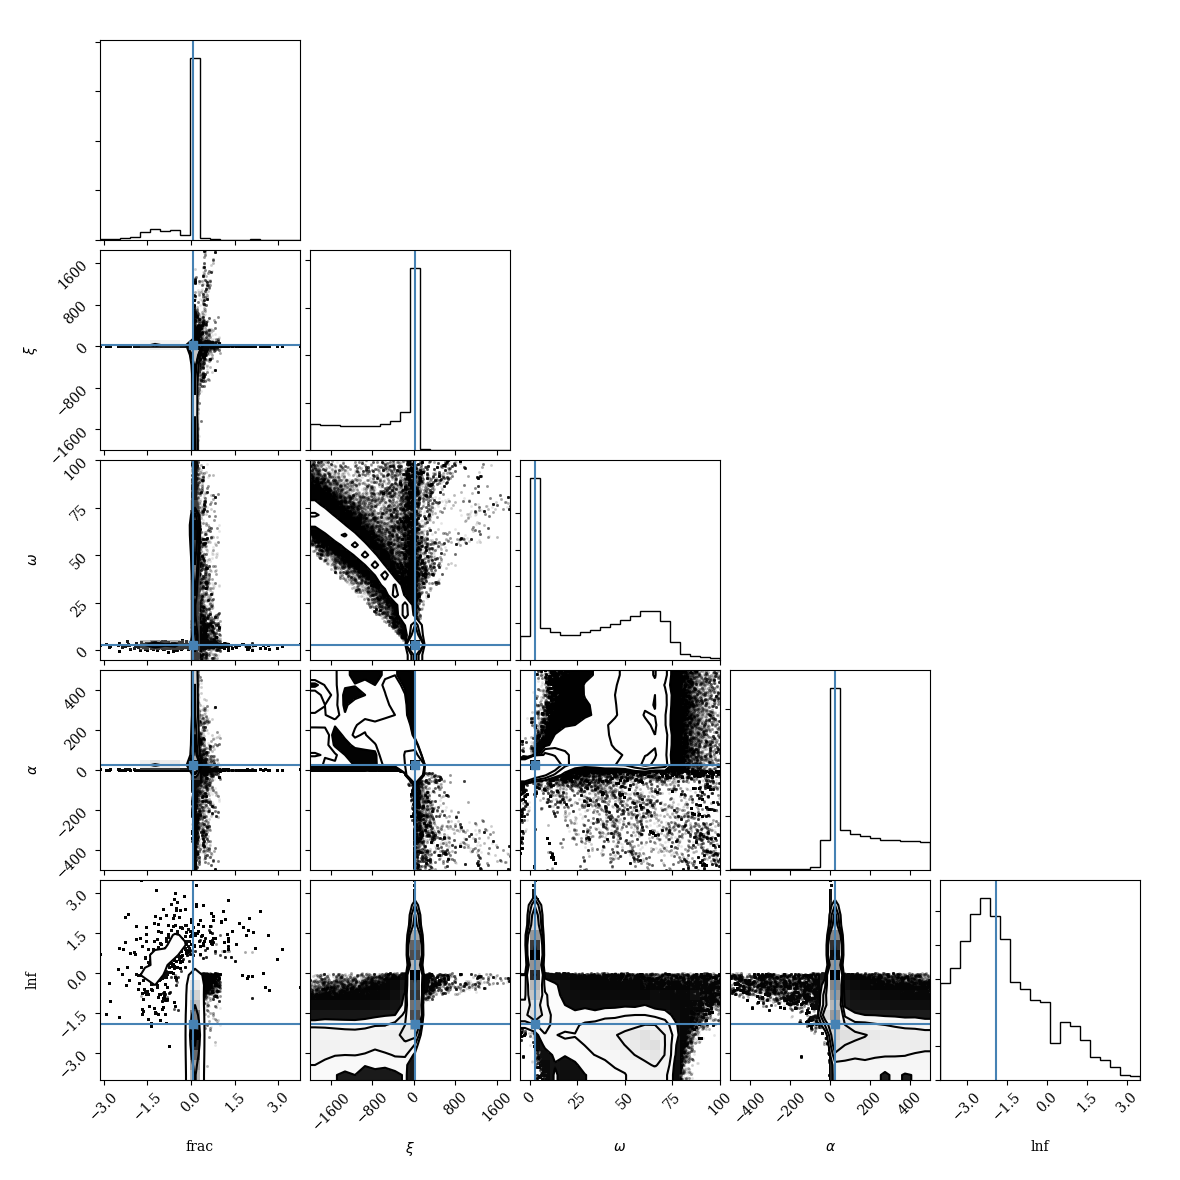
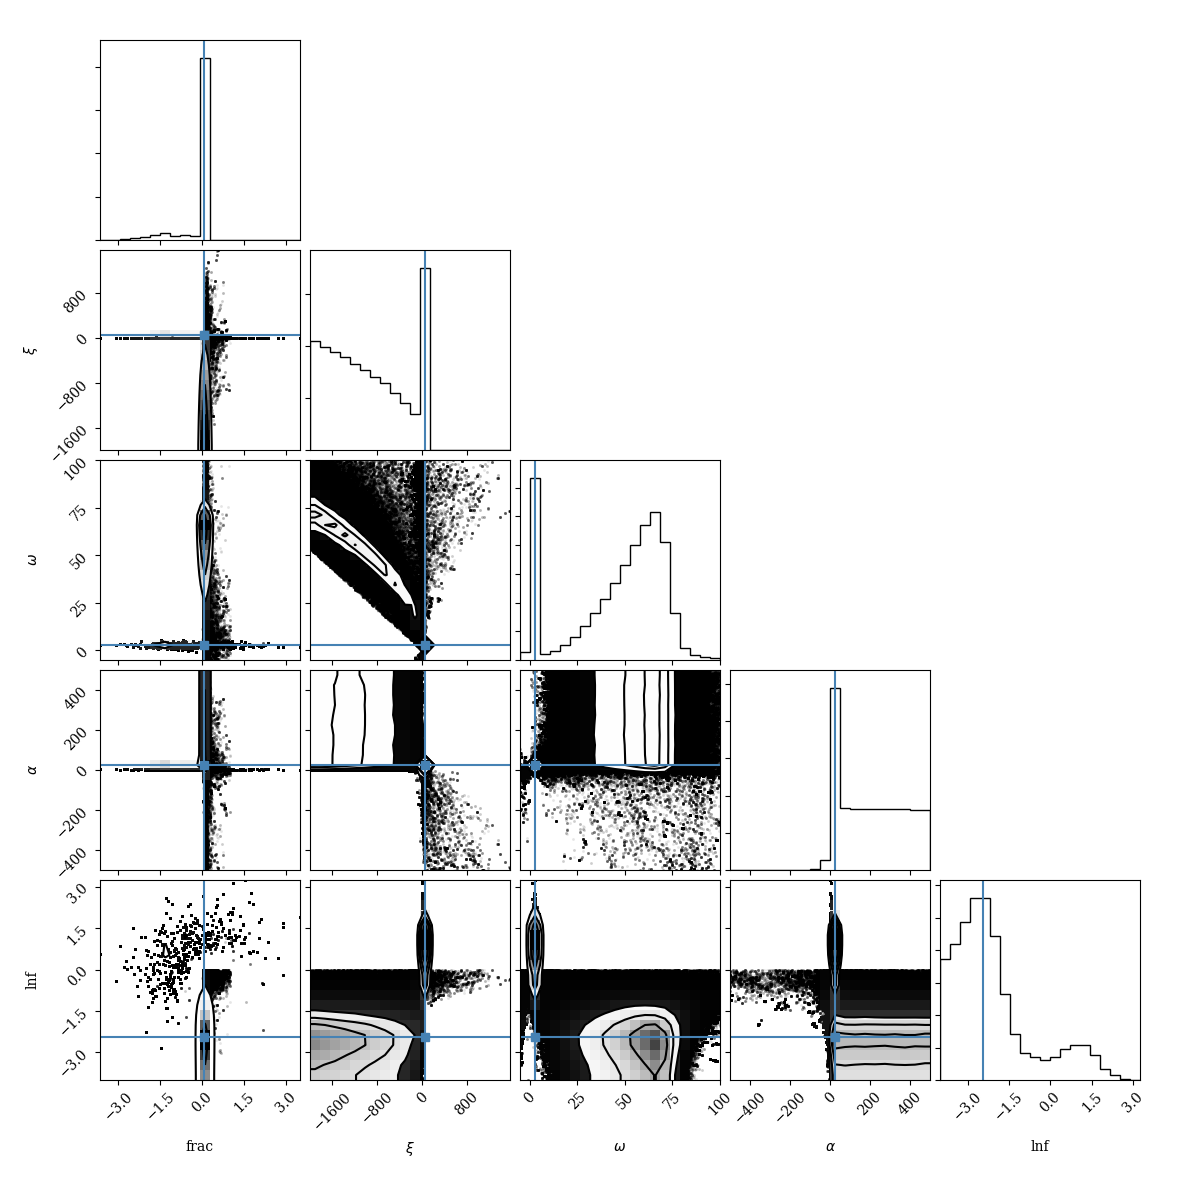
modified:   MCMC_SFD.py 	modified:   temporary.png

diff --git a/analysis/scripts/MCMC_SFD.py b/analysis/scripts/MCMC_SFD.py
@@ -33,10 +33,10 @@ def dtdfit(time,*p):
 
 def lnprior(p):
     ff, m, w, k, lnf = p
-    if 0.0 < ff < 1.0 and -2000.0 < m < 2000.0 and -5. < w < 100.0 and -500.0 < k < 500.0 and -4.0 < lnf < 0.0:
-        return 0.0
-    elif m==0. and w==0. and k==0.:
+    if m==0. and w==0. and k==0.:
         return -np.inf
+    elif 0.0 < ff < 1.0 and -2000.0 < m < 2000.0 and -5. < w < 100.0 and -500.0 < k < 500.0 and -4.0 < lnf < 0.0:
+        return 0.0
     else:
         return -np.inf
 
@@ -75,7 +75,7 @@ if __name__=='__main__':
     import time
     import multiprocessing as mpc
     ncore = mpc.cpu_count()
-    ndim, nwalkers, nsteps = 5, 1000, 1000
+    ndim, nwalkers, nsteps = 5, 1000, 10000
     step_size = 1.0
     p0 = (0.05, 3.5, 2.5, 2.5, 0.01)
 
